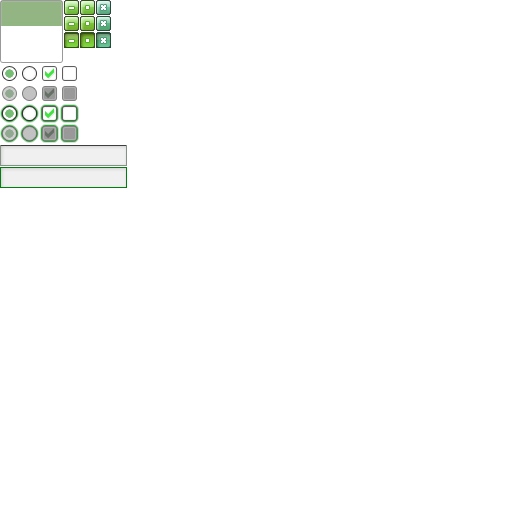
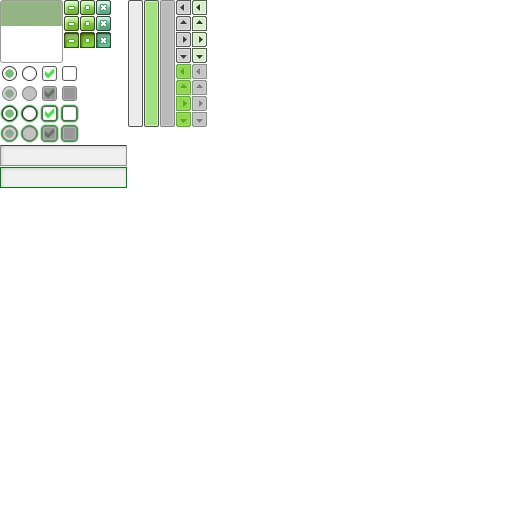
List control + skin updates.

Changed region(s): [[0.25, 0.0, 0.4062, 0.25]]

diff --git a/src/Alttp.Console/ConsoleWindow.cs b/src/Alttp.Console/ConsoleWindow.cs
@@ -30,6 +30,7 @@ namespace Alttp.Console
 
         // Controls
         public CommandInputControl CommandInput { get; private set; }
+        public ListControl OutputList { get; private set; }
 
         public float OpenedY { get { return OffsetY; } }
         public float ClosedY { get { return OffsetY - Height; } }
@@ -86,14 +87,24 @@ namespace Alttp.Console
         {
             // Command input prompt
             const int cmdPromptHeight = 26;
+
             CommandInput = new CommandInputControl(_python)
                 {
-                    Bounds = new UniRectangle(1, Bounds.Size.Y - cmdPromptHeight - 1, Bounds.Size.X - 2, cmdPromptHeight),
+                    Bounds = new UniRectangle(0, Bounds.Size.Y - cmdPromptHeight, Bounds.Size.X, cmdPromptHeight),
                     Enabled = false
                 };
             CommandInput.Clear();
 
             Children.Add(CommandInput);
+
+            // List with command and output history
+            OutputList = new ListControl()
+                {
+                    Bounds = new UniRectangle(0, 0, Bounds.Size.X, Bounds.Size.Y - cmdPromptHeight),
+                    SelectionMode = ListSelectionMode.None
+                };
+
+            Children.Add(OutputList);
         }
 
         public void Update(GameTime gameTime)
